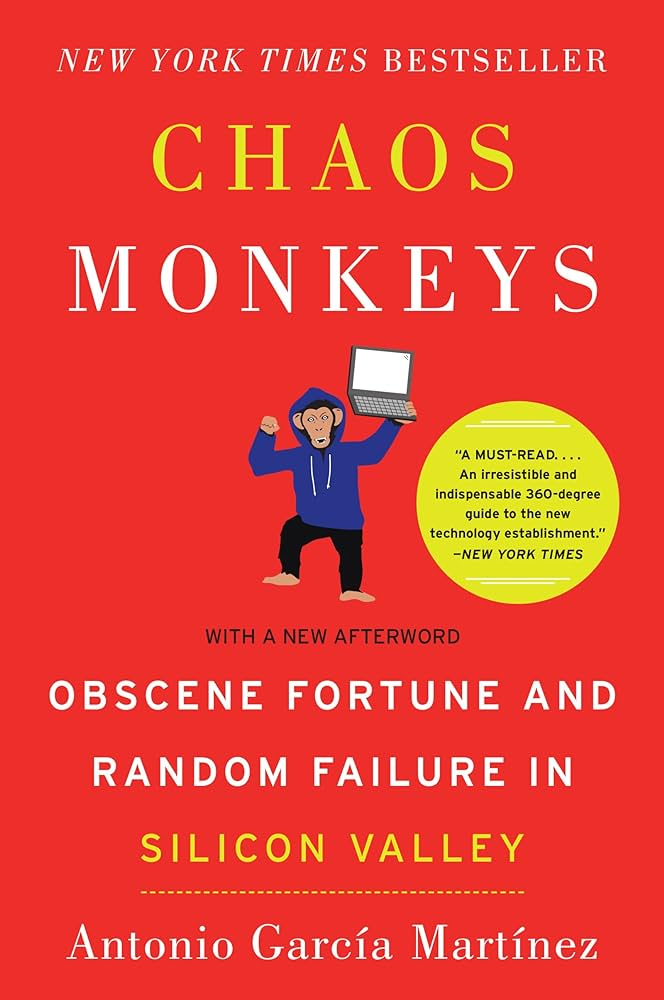
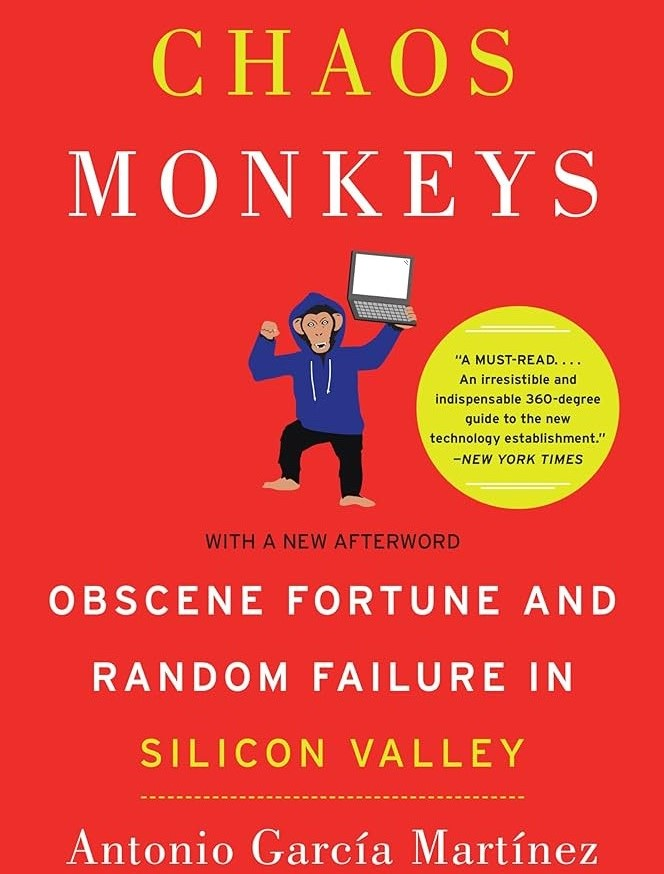
Book cover border

diff --git a/assets/css/styles.scss b/assets/css/styles.scss
@@ -37,7 +37,8 @@ body {
 .book-cover img {
     width: 210px; /* Set your desired width */
     height: 280px; /* Set your desired height */
-    object-fit: contain; /* Ensures images are resized to fit within the dimensions */
+    object-fit: cover; /* Ensures images are resized to fit within the dimensions */
+	border: 2px solid black;
 }
 
 .book-info {

diff --git a/about.md b/about.md
@@ -57,11 +57,11 @@ I also have 2 Patents from USPTO for some of the work I had done at Johnson Cont
 
 <div class="image-container">
 
-		<a href="https://patents.google.com/patent/US20190113546A1/en?inventor=Vihari+Venkatavidya+Andukuri" target="_blank">
+		<a href="https://patents.google.com/patent/US20190113546A1/en?inventor=Vihari+Venkatavidya+Andukuri" style="color:black;" target="_blank">
 	    <img src="/assets/about/Patent1edit.png" border="1" align="left" alt="Image 1">
 		</a>
 		
-		<a href="https://patents.google.com/patent/WO2019075239A1/en?inventor=venkata+vihari&oq=venkata+vihari" target="_blank">
+		<a href="https://patents.google.com/patent/WO2019075239A1/en?inventor=venkata+vihari&oq=venkata+vihari" style="color:black;" target="_blank">
 	    <img src="/assets/about/patent2edit.png" border="1" align="left" alt="Image 2">
 		</a>
 </div>

diff --git a/books.md b/books.md
@@ -12,7 +12,7 @@ permalink: /books/
 
 **The Life of Mao**
 
-![Chungking Express Screencap 1]({{site.baseurl}}/assets/bookcovers/mao.jpg){:height="350px" width="200px"}
+![Chungking Express Screencap 1]({{site.baseurl}}/assets/bookcovers/mao.jpg){:height="350px" width="200px" style="border: 1px solid black;"}
 
 ------
 
